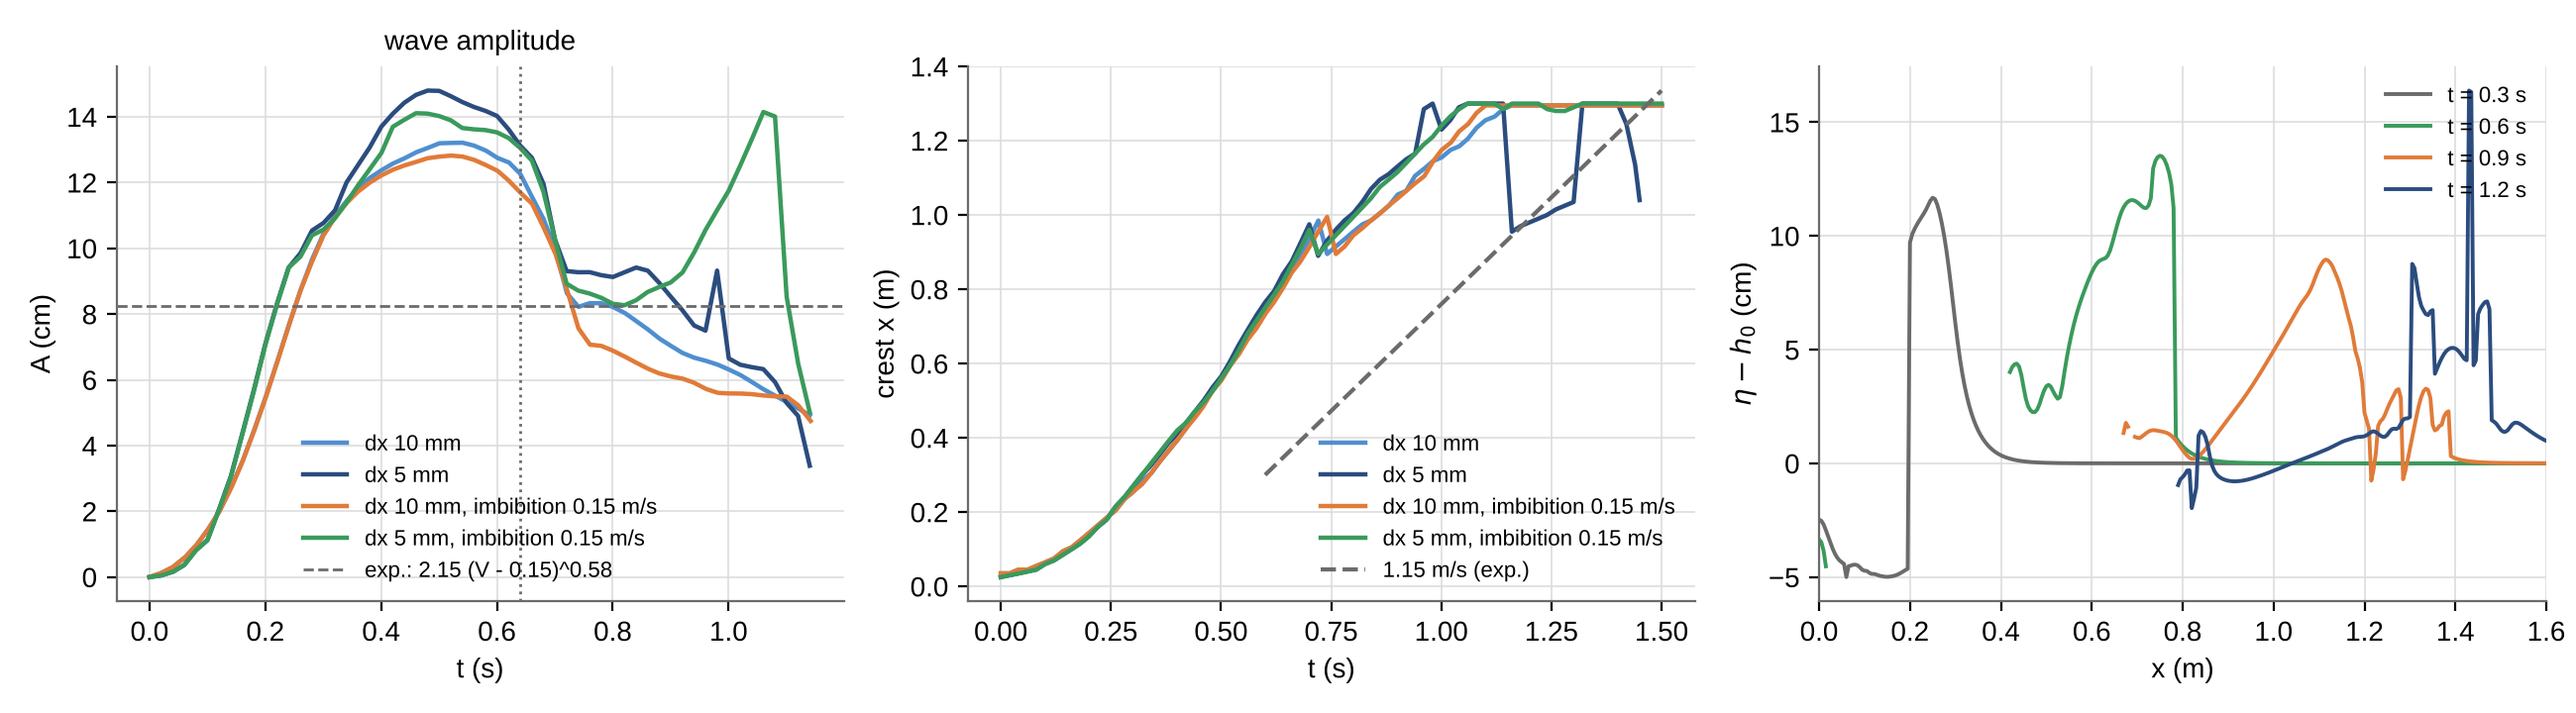
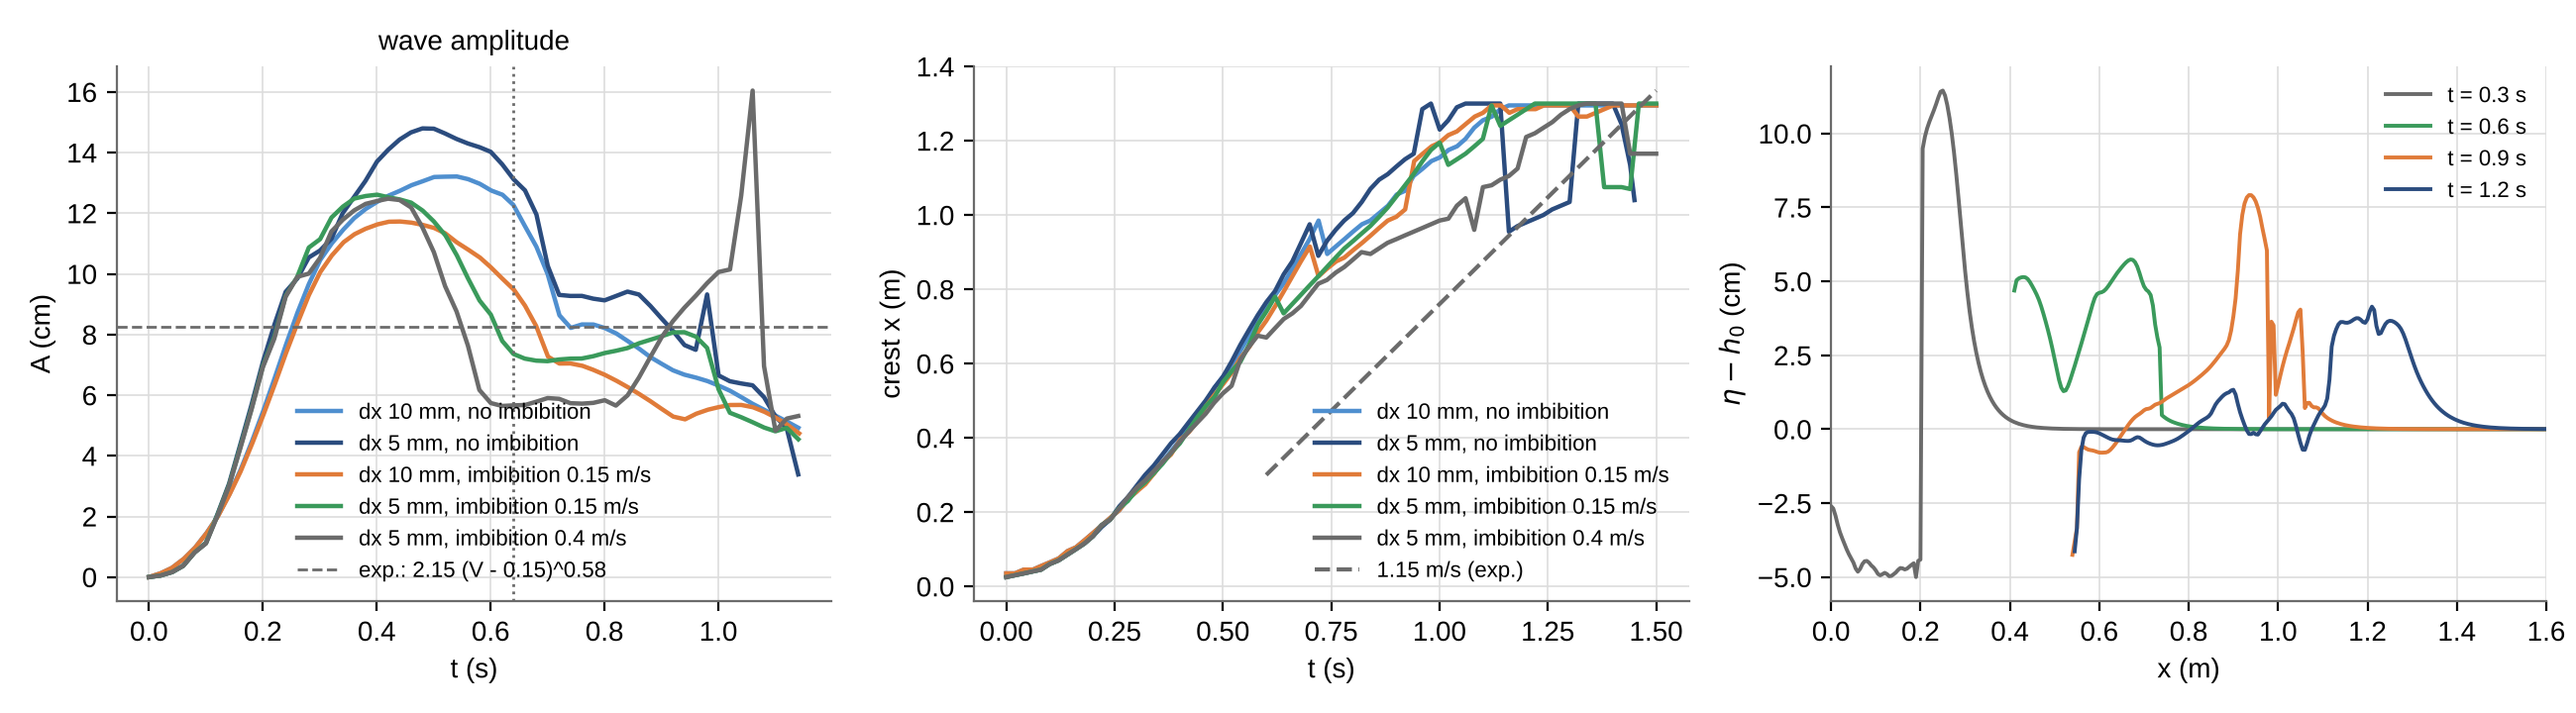
rheology 11

diff --git a/src/rheology_cfd_3phase.h b/src/rheology_cfd_3phase.h
@@ -78,6 +78,9 @@ takes up water, at once (W 136 v <= 0) or with a front speed v (dS = v dt/dx). I
 leaves the water next to it: a sink div(u) = -q in the water cells around the cell (in all water cells next to the slide
 when the cell has no water neighbour on its rank), balanced by a source in all air cells (the pore air that escapes).
 Without it the dry slide displaced its whole bulk volume of water (the pores stayed dry).
+The pore water carries the hydrostatic pressure of W 143 only in the saturated share S of the pores: the pore air of
+a slide that stands out of the water is open to the atmosphere, and the dry grains under the water surface carry their
+full weight until the water reaches them.
 
 Interface band (W 131 3, as in the two-phase model): the smoothed band (alpha_s > 1e-3 after smoothing) gets the full
 viscosity of the slide, max(mu_s, mu_f), instead of alpha mu_s + (1 - alpha) mu_f, and p' at least the buoyant weight
@@ -106,6 +109,9 @@ public:
 
     // the pore water taken up so far [m3] (W 136)
     double imbibed_total() const { return imbibed; }
+
+    // hydrostatic pore pressure carried by the pore water (W 143): with imbibition (W 136) only its saturated share S
+    double ppore(int ii, int jj, int kk) { return imb ? sat(ii,jj,kk)*phyd(ii,jj,kk) : phyd(ii,jj,kk); }
 
     // bulk density of the slide in cell (ii,jj,kk): W 141, plus the pore water taken up since the start (W 136)
     double rho_slide(int ii, int jj, int kk) { return imb ? rho_s + (sat(ii,jj,kk) - S0)*nporo*rho_w : rho_s; }

diff --git a/src/rheology_cfd_3phase.cpp b/src/rheology_cfd_3phase.cpp
@@ -865,7 +865,7 @@ void rheology_cfd_3phase::excess(lexer *p, fdm *a, ghostcell *pgc, solver *psolv
     if(!pe_ini && p->count>=2)
     {
         LOOP
-        pe(i,j,k) = alpha(i,j,k)>0.5 ? lambda0*MAX(a->press(i,j,k) - p->pressgage - phyd(i,j,k),0.0) : 0.0;
+        pe(i,j,k) = alpha(i,j,k)>0.5 ? lambda0*MAX(a->press(i,j,k) - p->pressgage - ppore(i,j,k),0.0) : 0.0;
         bc(p,pgc,pe);
         pe_ini = true;
 
@@ -981,7 +981,7 @@ void rheology_cfd_3phase::excess(lexer *p, fdm *a, ghostcell *pgc, solver *psolv
     // fluidised there, p' = 0); with a small beta the contraction alone drove p_e to 5 times the overburden
     LOOP
     if(alpha(i,j,k)>0.5)
-    pe(i,j,k) = MIN(pe(i,j,k),MAX(a->press(i,j,k) - p->pressgage - phyd(i,j,k),0.0));
+    pe(i,j,k) = MIN(pe(i,j,k),MAX(a->press(i,j,k) - p->pressgage - ppore(i,j,k),0.0));
 
     bc(p,pgc,pe);
 
@@ -1005,8 +1005,11 @@ double rheology_cfd_3phase::peff(lexer *p, fdm *a)
 {
     double pp = a->press(i,j,k) - p->pressgage;
 
+    // the pore water carries the hydrostatic pressure; with imbibition (W 136) only the saturated share S of the pores:
+    // the air in the dry pores of a slide that stands out of the water is open to the atmosphere, so dry grains under
+    // the water surface carry their full weight (no buoyancy until the water reaches them)
     if(pore>=1)
-    pp -= phyd(i,j,k);
+    pp -= ppore(i,j,k);
 
     if(pore==2)
     pp -= pe(i,j,k);

diff --git a/Validation/rheology/README.md b/Validation/rheology/README.md
@@ -97,7 +97,7 @@ Slide, water and air (`rheology_cfd_3phase`). Water and air keep the level set; 
 - **Mixture:** ρ = α ρ_s + (1−α)(H ρ_w + (1−H) ρ_a), μ = α μ_s + (1−α) μ_f (W 149 1; W 149 2 harmonic), μ_f = H ρ_w ν_w + (1−H) ρ_a ν_a, μ_s from the core. For ρ and μ α is smoothed by two passes of (¼ ½ ¼) in each direction (a band of about ±2 cells, as the level set). With the sharp α the density jump slide/air in one cell drove interface currents of 1 m/s at the front of the viscous current of case 12.
 - **Effective pressure** p' = p − p_hyd − p_e: W 143 1, the drained hydrostatic pore pressure ρ_w g (η_w − z) below the water surface η_w of the column (the highest water cell outside the slide and above the slide of the column, z + φ; a column the slide fills, or with water only under the slide, takes the surface of the next column with open water). Before, the water film a slide rode on gave its column a surface at the bed, and the slide in a column it filled counted as dry. W 143 2 adds the excess pore pressure p_e, advected with the slide and solved implicitly, β (∂p_e/∂t + u·∇p_e) = ∇·(k/η_w ∇p_e) − γ̇ tan ψ, p_e = 0 outside the slide (drained surface), no flux through walls, p_e ≤ p − p_hyd (no tension of the skeleton). Initial p_e = λ₀ (p − p_hyd) after the first step.
 - **Interface band** (`W 131 3`, the default with W 140, as W 131 3 of the two-phase model): over the smoothed band (10⁻³ < α_s < 1 after smoothing) p' is at least the buoyant weight of the band above the cell, g Σ (ρ_s − ρ_f) α_s dz, and a slide with a yield stress (μ(I), μ(J), HBC, Coulomb-viscoplastic, HB with τ_y > 0) has its full viscosity there, max(μ_s, μ_f), instead of α μ_s + (1 − α) μ_f. With the share α the light band cells on an inclined surface were weaker than their weight: they flowed down the surface, drove a jet of air along the bed ahead of the toe and carried the thin tail with them (case 31: a wedge below the friction angle advanced 70 mm in 2 s). Not for a Newtonian or power-law slide: it has no deposit to hold, and its full viscosity in the light outer band cells (ρ ≈ 3 kg/m³) made the explicit cross terms of the diffusion blow up. The floor is not applied below the band (α_s = 1): there it held a loose slide at its lithostatic p' against the pore pressure.
-- **Imbibition** (`W 136 S₀ v`, S₀ < 1): the pores of a slide that starts dry or partly saturated fill with water below the water surface. A submerged slide cell next to water or to a full slide cell (S ≥ 0.99) takes up water, dS = v dt/h (v ≤ 0: at once). Its bulk density grows by (S − S₀) n ρ_w (n = 1 − φ_s of W 124; W 141 is the bulk density at S₀), S is carried with the slide, and the water it takes leaves the water next to it: a sink div(u) = −q in its water neighbours (else in all water cells next to the slide), balanced by a source in all air cells (the pore air that escapes), in the projection (`pjm_corr`). The volume of water taken up is printed (`Slide pore water taken up`). Needs W 143 ≥ 1 (the water surface of the columns).
+- **Imbibition** (`W 136 S₀ v`, S₀ < 1): the pores of a slide that starts dry or partly saturated fill with water below the water surface. A submerged slide cell next to water or to a full slide cell (S ≥ 0.99) takes up water, dS = v dt/h (v ≤ 0: at once). Its bulk density grows by (S − S₀) n ρ_w (n = 1 − φ_s of W 124; W 141 is the bulk density at S₀), S is carried with the slide, and the water it takes leaves the water next to it: a sink div(u) = −q in its water neighbours (else in all water cells next to the slide), balanced by a source in all air cells (the pore air that escapes), in the projection (`pjm_corr`). The pore water carries the hydrostatic pressure of W 143 only in the saturated share of the pores, p' = p − S p_hyd (− p_e): the pore air of a slide that stands out of the water is open to the atmosphere, so dry grains under the water surface carry their full weight until the water reaches them. Without W 136 the pores are taken as saturated (S = 1). The volume of water taken up is printed (`Slide pore water taken up`). Needs W 143 ≥ 1 (the water surface of the columns).
 - **Dilatancy** (W 145 φ₀ > 0): φ advected with the slide; tan ψ = K₃ (φ − φ_c/(1 + J^½)) (Pailha & Pouliquen 2009, φ_eq of Boyer et al. 2011) is the source of p_e and extra friction of μ(I) or μ(J); dφ/dt = −φ D_v with the dilation D_v = ∇·(k/η_w ∇p_e) the pore fluid that flows in. J takes p' of at least the buoyant weight of one cell (at the slide surface p' → 0 and J → ∞); |tan ψ| ≤ 0.6.
 
 | key | type | meaning (default) |
@@ -186,8 +186,8 @@ tools/run_case.sh <REEF3D> <DiveMESH> 14_cfd_collapse_in_fluid/cases/loose <run>
 python3 tools/rheo3_eval.py rondon <run>/r_loose <run>/r_dense 14_cfd_collapse_in_fluid/results
 tools/run_case.sh <REEF3D> <DiveMESH> 15_cfd_collapse_into_water/cases/dx10 <run>/rs_10 "mpirun -np 2"   # also dx05
 python3 tools/rheo3_eval.py robbe <run>/rs_10 <run>/rs_05 15_cfd_collapse_into_water/results
-tools/run_case.sh <REEF3D> <DiveMESH> 15_cfd_collapse_into_water/cases/dx10_imb <run>/rs_10_imb "mpirun -np 2"   # also dx05_imb, dx10_imb_once
-python3 tools/rheo3_eval.py robbe "no imbibition=<run>/rs_05" "imbibition 0.15 m/s=<run>/rs_05_imb" 15_cfd_collapse_into_water/results   # label=run pairs
+tools/run_case.sh <REEF3D> <DiveMESH> 15_cfd_collapse_into_water/cases/dx10_imb <run>/rs_10_imb "mpirun -np 2"   # also dx05_imb, dx10_imb_v04, dx05_imb_v04, dx10_imb_once
+python3 tools/rheo3_eval.py robbe "dx 10 mm, no imbibition=<run>/rs_10" "dx 5 mm, no imbibition=<run>/rs_05" "dx 10 mm, imbibition 0.15 m/s=<run>/rs_10_imb" "dx 5 mm, imbibition 0.15 m/s=<run>/rs_05_imb" "dx 5 mm, imbibition 0.4 m/s=<run>/rs_05_imb_v04" 15_cfd_collapse_into_water/results   # label=run pairs
 for c in layer layer_front; do tools/run_case.sh <REEF3D> <DiveMESH> 33_cfd_imbibition_layer/cases/$c <run>/imb_$c; done
 python3 tools/rheo3_eval.py imblayer <run>/imb_layer <run>/imb_layer_front 33_cfd_imbibition_layer/results
 for c in air_w131_2 air_w131_3 water_w131_2 water_w131_3; do tools/run_case.sh <REEF3D> <DiveMESH> 31_cfd_wedge_at_rest/cases/$c <run>/w_$c "mpirun -np 2"; done
@@ -513,22 +513,21 @@ With `D 22 1` the bed acts as free slip, so the current runs off like an invisci
 - **Set-up:** dry 5 mm glass beads (φ = 0.64, ρ_s = 1600, μ(I) of 07 with d = 5 mm), column H0 = 41 cm, L0 = 16.5 cm (a = 2.5, V = 10.2 dm³ over 15 cm width) on a step of h0 = 5 cm, released at once into water 5 cm deep; 2D, 1.8 m long (closed end), dx = 10 and 5 mm, W 143 1, 1.5 s, 2 ranks.
 - **Reference:** Robbe-Saule et al. (2021) JFM: A_m ≈ 2.15 (V − 0.15)^0.58 = 8.25 cm at a = 2.5 (5 mm beads), the peak of A(t) at about 0.64 s, the leading wave separates from the granular front at about 0.5 s, wave speed 1.15 m/s ≈ √(g(h0 + A_m)), collapse over by about 1 s.
 
-`W 131 3` (the default with W 140); dry pores (`dx10`, `dx05`) and imbibition `W 136 0 0.15` (`dx10_imb`, `dx05_imb`):
+`W 131 3` (the default with W 140). Without imbibition (`dx10`, `dx05`) the pores count as saturated (buoyant p' under the water surface) while the slide displaces with its dry bulk density; with imbibition (`W 136 0 v`: dry at the start, `dx10_imb`, `dx05_imb` v = 0.15 m/s, `*_imb_v04` v = 0.4 m/s) the pore pressure acts in the wetted share of the pores only:
 
-| | dx 10 mm | dx 5 mm | dx 10 mm, imbibition | dx 5 mm, imbibition | experiment |
-|---|---|---|---|---|---|
-| max amplitude ahead of the slide (t < 0.8 s) | 13.2 cm at 0.54 s | 14.8 cm at 0.48 s | 12.8 cm at 0.52 s | 14.1 cm at 0.46 s | 8.25 cm at 0.64 s |
-| amplitude at 0.64 s | 12.3 cm | 13.1 cm | 11.7 cm | 13.1 cm | 8.25 cm |
-| crest speed 0.5–1 s | 1.06 m/s | 1.29 m/s | 1.10 m/s | 1.26 m/s | 1.15 m/s |
-| granular front (h > 5 mm) at 1 s | 0.73 m | 0.89 m | 0.69 m | 0.82 m | (deposit within the wave generation zone) |
-| pore water taken up at 1.5 s (pore volume 2.44e-4 m³) | | | 1.14e-4 m³ | 0.88e-4 m³ | |
-| slide volume, max relative change | 8e-14 | 7e-13 | 2e-12 | 6e-13 | |
+| | no imbibition, dx 10 / 5 mm | imbibition 0.15 m/s, dx 10 / 5 mm | imbibition 0.4 m/s, dx 10 / 5 mm | experiment |
+|---|---|---|---|---|
+| max amplitude ahead of the slide (t < 0.8 s) | 13.2 / 14.8 cm at 0.54 / 0.48 s | 11.7 / 12.6 cm at 0.44 / 0.40 s | 11.7 / 12.5 cm at 0.44 / 0.42 s | 8.25 cm at 0.64 s |
+| amplitude at 0.64 s | 12.3 / 13.1 cm | 9.5 / 7.4 cm | 8.6 / 5.7 cm | 8.25 cm |
+| crest speed 0.5–1 s | 1.06 / 1.29 m/s | 1.17 / 1.16 m/s | 1.13 / 0.85 m/s | 1.15 m/s |
+| granular front (h > 5 mm) at 1 s | 0.73 / 0.89 m | 0.53 / 0.65 m | 0.55 / 0.55 m | (deposit within the wave generation zone) |
+| pore water taken up at 1.5 s (pore volume 2.44e-4 m³) | | 0.71 / 0.70e-4 m³ | 1.09 / 0.81e-4 m³ | |
+| slide volume, max relative change | 8e-14 / 7e-13 | 1e-12 / 6e-13 | 2e-12 / 1e-12 | |
 
-- The crest speed agrees; the maximum amplitude is 60–80 % too high and comes too early, on both grids.
-- The water surface of a column (W 143) is now taken from the water above the slide: before, the thin water film under the slide where the column stands out of the water gave the surface at the bed, and the submerged part of the slide had no pore pressure there. With the pore pressure the slide is more mobile and the amplitude rose from 11.6 / 12.6 cm (dx 10 / 5 mm) to 13.2 / 14.8 cm.
-- Imbibition at 0.15 m/s (front speed estimated, about a third of the pore volume is filled in the collapse) lowers the amplitude by 3–5 % and shortens the runout by 5–8 %: the slide becomes heavier, so p' grows under water. On the fine grid the wave steepens over the deposit after 0.9 s (a second maximum, 14 cm at 1.06 s, figure). With the pores filled at once (`dx10_imb_once`, `W 136 0 0`) the sink in the water at the front is a shock (6.6 cm, only 2.4e-5 m³ taken up): not recommended.
+- With imbibition the dry grains under the water carry their full weight (no buoyancy until they are wet) and the slide gets heavier as it takes up water: the runout under water falls by a quarter to a third, the maximum amplitude by 11–15 %, and the wave after the generation phase is close to the experiment (amplitude at 0.64 s 7.4–9.5 cm at 0.15 m/s for 8.25 cm, crest speed 1.16–1.17 m/s for 1.15 m/s). The maximum is still 40–50 % too high and comes 0.2 s early.
+- Front speed: Darcy with the Kozeny-Carman permeability of the 5 mm beads (k = d² n³/(180 (1 − n)²) = 1.6e-8 m², n = 0.36) gives a hydraulic conductivity k ρ_w g / μ_w = 0.15 m/s and a front speed of about 0.4 m/s at a unit gradient (without the inertial drag of the coarse pores). At 0.4 m/s the 5 mm grid gives the lower amplitude at 0.64 s, 5.7 cm, and its wave breaks over the deposit after 0.9 s (16 cm at 1.06 s, figure); 0.15 m/s gives consistent results on the two grids. With the pores filled at once (`dx10_imb_once`, `W 136 0 0`) the sink at the slide front is a shock (9.8 cm at 0.34 s, 5.5 cm at 0.64 s, only 3.2e-5 m³ taken up): not recommended.
+- Without imbibition the slide is more mobile than before 2026-11-20 (13.2 / 14.8 cm instead of 11.6 / 12.6 cm): the water surface of a column is now taken from the water above the slide (a thin water film under a slide that stood out of the water gave the surface at the bed, and its submerged part had no pore pressure). For a slide with saturated pores that is right; for dry beads use W 136.
 - In the experiment water fills the pores of the beads during the collapse, so the grains displace about φ = 0.64 of the bulk volume (A ∝ V^0.58: a factor 1.3). Here the slide displaces water with its bulk volume first and takes up the water by the front only; the air that leaves the pores goes to the air at once. The gate is lifted in the experiment and released at once here.
-- The slide still runs out far under water: the dry bulk density 1600 below water and no added friction from the pore water.
 - Not done: the submarine slide of Heinrich (1992); the data are available only in figures of the paper.
 
 ![](15_cfd_collapse_into_water/results/15_robbe_saule_wave.png)
@@ -556,8 +555,8 @@ With `D 22 1` the bed acts as free slip, so the current runs off like an invisci
 
 | | water surface at 2 s | expected | mean saturation at 2 s | pore water taken up | slide volume |
 |---|---|---|---|---|---|
-| at once | 0.1144 m | 0.114 m | 1.00 | 3.60e-6 m³ (= n V) | 4e-11 |
-| front 0.02 m/s | 0.1359 m | 0.1356 m | 0.399 (0.4) | 1.43e-6 m³ | 1e-11 |
+| at once | 0.1147 m | 0.114 m | 1.00 | 3.59e-6 m³ (n V = 3.60e-6) | 4e-11 |
+| front 0.02 m/s | 0.1359 m | 0.1356 m | 0.401 (0.4) | 1.43e-6 m³ | 1e-11 |
 
 - The water surface follows the pore water taken up, and the slide keeps its volume; the slide does not move.
 - A restart from the checkpoint (`I 45`) at step 300 gives the same fields as the run without restart (bitwise), with the saturation and the pore water count.
